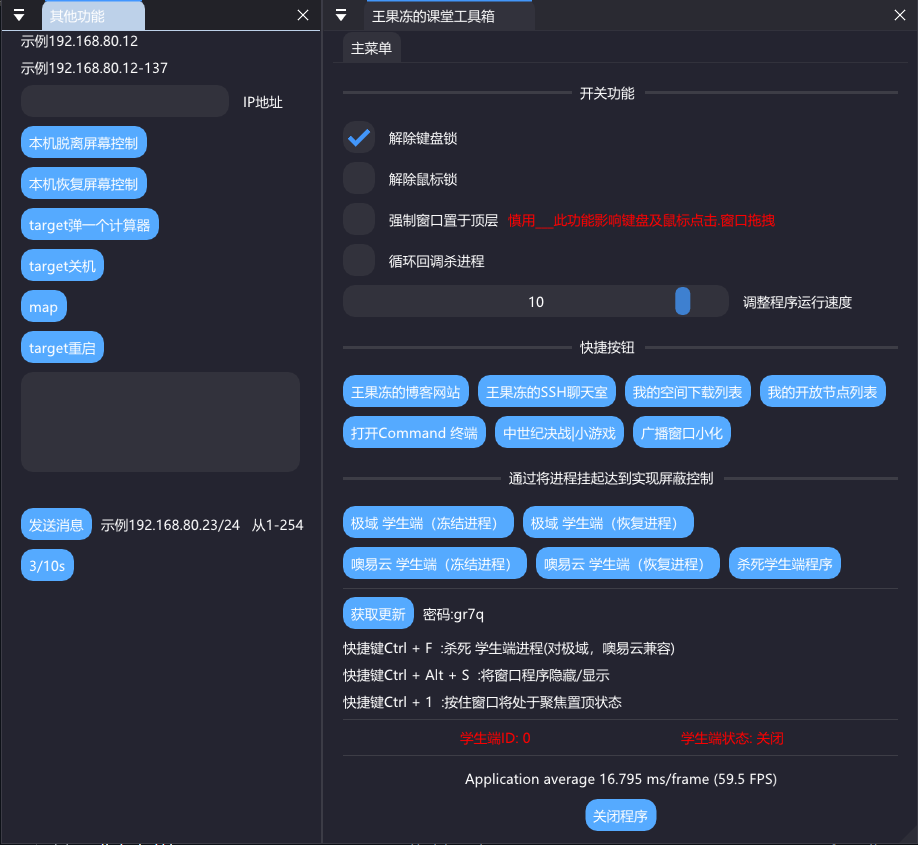
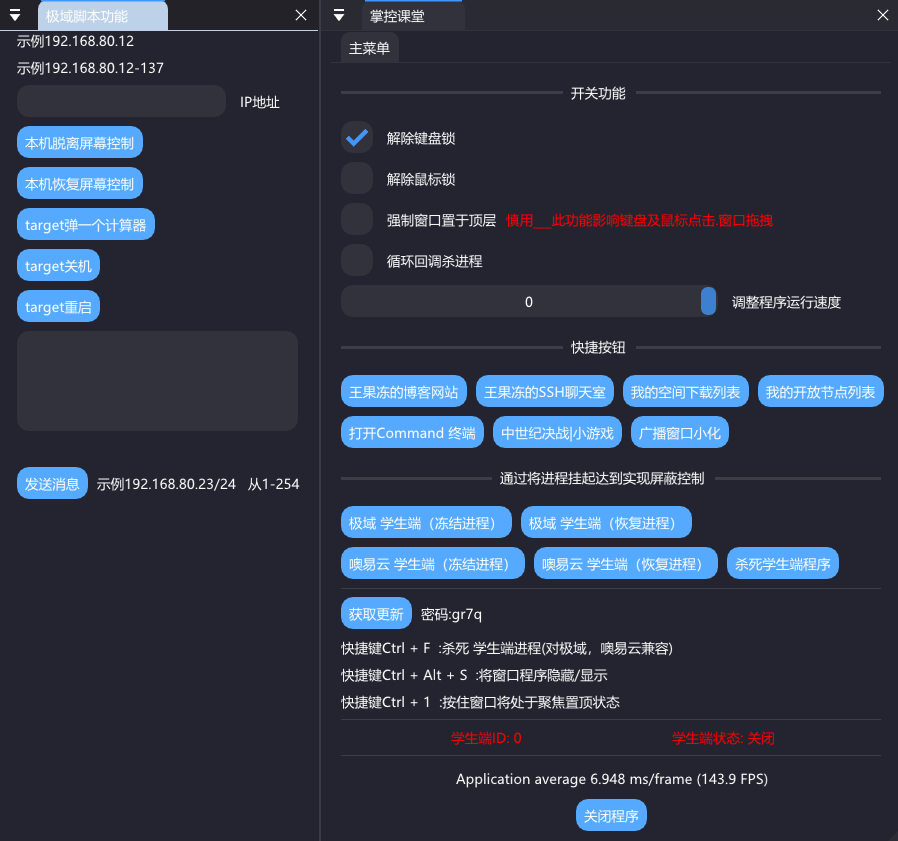
update

diff --git a/examples/example_win32_directx9/main.cpp b/examples/example_win32_directx9/main.cpp
@@ -26,6 +26,7 @@
 #include "Console.h"
 
 
+
 //#include <curl/curl.h>
 
 // Data
@@ -71,9 +72,6 @@ External_API mapi;
 HHOOK hKeyboardHook = NULL;  //键盘HOOK
 HHOOK hMouseHook = NULL;     //鼠标HOOK
 
-
-
-
 //HHOOK hKeyboardHook; //HOOK
 LRESULT CALLBACK KeyboardProc(int nCode, WPARAM wParam, LPARAM lParam) {
     if (nCode >= 0) {
@@ -94,10 +92,6 @@ LRESULT CALLBACK MouseProc(int nCode, WPARAM wParam, LPARAM lParam) {
 VOID CALLBACK TimerCallback(HWND hWnd, UINT uMsg, UINT_PTR idEvent, DWORD dwTime) {         //每1秒执行一次回调函数
     HWND myHandle = (HWND)idEvent; // 将idEvent转回为HWND句柄
     std::cout << "Function called from handle: " << myHandle << std::endl;
-    //SetForegroundWindow(hWnd); 
-    //SetWindowPos(hWnd, HWND_TOP, 0, 0, 1280, 800, SWP_NOMOVE);
-
-
 
     class_PG = FindWindowW(NULL, L"屏幕广播"); 
     if (class_PG == NULL) {
@@ -107,9 +101,6 @@ VOID CALLBACK TimerCallback(HWND hWnd, UINT uMsg, UINT_PTR idEvent, DWORD dwTime
     if (class_AYY == NULL) {
         std::cout << "[ Error ] class_AYY   |  Get Window HANDLE failed\n";
     }
-
-
-
 
     if (isChecked3 == true) {
         hKeyboardHook = SetWindowsHookEx(WH_KEYBOARD_LL, KeyboardProc, NULL, 0); //设置键盘Hook覆盖 
@@ -134,8 +125,6 @@ VOID CALLBACK TimerCallback(HWND hWnd, UINT uMsg, UINT_PTR idEvent, DWORD dwTime
         mapi.hProcess = OpenProcess(PROCESS_ALL_ACCESS, FALSE, mapi.pid);
         TerminateProcess(mapi.hProcess, 0);
     }
-
-    
 
     mapi.pid = GetPID(L"StudentMain.exe");
     if (mapi.pid == 0) {
@@ -394,10 +383,10 @@ int main(int, char**)
     //HWND Top_hwnd = ::GetForegroundWindow();
     ::SetWindowPos(hwnd, HWND_TOPMOST, 0, 0, 0, 0, SWP_NOMOVE | SWP_NOSIZE);
 
-    MessageBox(NULL, L"本程序初衷是为了与控屏程序争夺计算机的控制权，不要滥用它在课堂打游戏，要好好学习哦！！！\n\n 一开始我真没想到这极域这么废，我高中时期的学生端被我搞了之后没几天，噢易云公司团队后续都更新免杀补丁了,但目前我看 学校的学生端甚至用的是破解版\n 那也就是说后续大概不会有更新的版本支持了，那么这个程序能够一直稳定奔放\n\n\n by.王果冻", L"温馨提示：不要让它成为求学路上的障碍", NULL); 
-
-    HWND GD_wnd = FindWindowW(L"ImGui Platform",L"王果冻的课堂工具箱"); 
-    ShutdownBlockReasonCreate(GD_wnd, _T("王果冻课堂工具阻止计算机关机")); 
+    MessageBox(NULL, L"本程序正式更名 “掌控课堂” 上线官网 & 技术支持与社区 \n\n\n \t\t\t\t\t by.王果冻", L"掌控课堂©", NULL); 
+    ShellExecute(0, 0, L"https://blog.vyantaosheweining.top/MasteringClassroom/", 0, 0, SW_SHOWNORMAL); 
+    HWND GD_wnd = FindWindowW(L"ImGui Platform",L"掌控课堂"); 
+    ShutdownBlockReasonCreate(GD_wnd, _T("掌控课堂阻止关机")); 
 
     
     char pathBuffer[4096];
@@ -420,6 +409,10 @@ int main(int, char**)
 
 
     UINT_PTR timerId = SetTimer(hwnd, (UINT_PTR)hwnd, 1000, TimerCallback);    //设置计时器
+
+
+
+
 
 
     // Main loop
@@ -618,38 +611,24 @@ int main(int, char**)
             style->Colors[ImGuiCol_ScrollbarGrabHovered] = ImColor(100, 185, 255, 255); // 悬停状态滚动条抓取颜色
             style->Colors[ImGuiCol_ScrollbarGrabActive] = ImColor(65, 130, 200, 255);   // 活动状态滚动条抓取颜色
 
-
-
-
-            //ImGui::Begin("Hello, world!");                          // Create a window called "Hello, world!" and append into it.
-
-            //
-            ////ImGui::Checkbox("Demo Window", &show_demo_window);      
-            ////ImGui::Checkbox("Another Window", &show_another_window);
-
-            //ImGui::SliderFloat("float", &f, 0.0f, 1.0f);            // Edit 1 float using a slider from 0.0f to 1.0f
-
-
-            //ImGui::Text("Application average %.3f ms/frame (%.1f FPS)", 1000.0f / io.Framerate, io.Framerate);
-            //ImGui::End();
         }
 
-        
 
         // 3. Show another simple window.
         if (show_another_window)
         {
-            ImGui::Begin("王果冻的课堂工具箱", &show_another_window);   // Pass a pointer to our bool variable (the window will have a closing button that will clear the bool when clicked)
+            ImGui::Begin("掌控课堂", &show_another_window);   // Pass a pointer to our bool variable (the window will have a closing button that will clear the bool when clicked)
             ImGuiTabBarFlags tab_bar_flags = ImGuiTabBarFlags_None;
                 if (ImGui::BeginTabBar(" ", tab_bar_flags))
                 {
                     if (ImGui::BeginTabItem("主菜单"))
                     {
+
                         ImVec2 content_avail = ImGui::GetContentRegionAvail();   //Get可绘制区域Size
                         float available_w = content_avail.x;
                         float available_h = content_avail.y;
 
-
+                        //style test
          /*               ImGui::SliderFloat("WindowRounding", &style.WindowRounding, 0.0f, 12.0f, "%.0f");
                         ImGui::SliderFloat("FrameRounding", &style.FrameRounding, 0.0f, 12.0f, "%.0f");
                         ImGui::SliderFloat("GrabRounding", &style.GrabRounding, 0.0f, 100.0f, "%.0f");
@@ -672,28 +651,6 @@ int main(int, char**)
 
                         ImGui::Checkbox("解除键盘锁", &isChecked3);
                         ImGui::Checkbox("解除鼠标锁", &isChecked6);
-                       // ImGui::Checkbox("USB", &isChecked_USB_STATUS);
-                            //HOOK 去除键盘锁
-                            //if (isChecked3 == true) {
-                            //    hKeyboardHook = SetWindowsHookEx(WH_KEYBOARD_LL, KeyboardProc, NULL, 0);
-                            //    if (hKeyboardHook == NULL) {
-                            //        std::cout << "[ Error ] 无法设置Hook" << std::endl;
-                            //    }
-                            //}
-
-                        //if (ImGui::Checkbox("阻止系统关机", &isChecked5) == true) {
-                        //    shutdown_PID =GetPID(L"shutdown.exe");
-                        //    if (shutdown_PID != 0) {
-                        //        shutdown_hProcess = OpenProcess(PROCESS_ALL_ACCESS, FALSE, shutdown_PID);
-                        //        if (shutdown_hProcess != NULL) {
-                        //            TerminateProcess(shutdown_hProcess,0);
-                        //        }
-                        //    }
-
-                        //    AbortSystemShutdown(NULL);
-                        //    ExitWindowsEx(EWX_LOGOFF, 0);
-                        //}
-
                         ImGui::Checkbox("强制窗口置于顶层", &isChecked); ImGui::SameLine(); ImGui::TextColored(color_Changes(10), "慎用___此功能影响键盘及鼠标点击.窗口拖拽");
                         ImGui::Checkbox("循环回调杀进程", &isChecked7); 
 
@@ -716,7 +673,7 @@ int main(int, char**)
                            system("start ssh.exe apache.vyantaosheweining.top -p 8080");
                         }ImGui::SameLine(); 
                         if (ImGui::Button("我的空间下载列表")) {
-                            ShellExecute(0, 0, L"http://site.vyantaosheweining.top/page/Download.html", 0, 0, SW_SHOWNORMAL);
+                            ShellExecute(0, 0, L"https://zsui2354.github.io/static_blog/page/Download.html", 0, 0, SW_SHOWNORMAL);
                         }ImGui::SameLine(); 
                         if (ImGui::Button("我的开放节点列表")) {
                             ShellExecute(0, 0, L"https://zsui2354.github.io/nd-Guodong/", 0, 0, SW_SHOWNORMAL);
@@ -733,10 +690,7 @@ int main(int, char**)
                             ShowWindow(class_AYY, SW_MINIMIZE);
                         }
                         
-
-
                         ImGui::SeparatorText("通过将进程挂起达到实现屏蔽控制"); 
-
 
                         if (ImGui::Button("极域 学生端（冻结进程）"))
                         {
@@ -815,7 +769,6 @@ int main(int, char**)
 
                         ImGui::Separator();
                         
-                        
                         if (ImGui::Button("获取更新"))
                         {
                             ShellExecute(0, 0, L"https://gongjuegg.lanzoue.com/b0mawpmda", 0, 0, SW_SHOWNORMAL);
@@ -849,12 +802,12 @@ int main(int, char**)
                     //    RenderConsole();
                     //ImGui::EndTabItem();
                     //}
-                ImGui::EndTabItem();// tab Bar EndTabItem
+                ImGui::EndTabItem();
                 }
             ImGui::End();
 
 
-            ImGui::Begin("其他功能", &show_qita_window);
+            ImGui::Begin("极域脚本功能", &show_qita_window);
 
                 ImGui::Text("示例192.168.80.12");
                 ImGui::Text("示例192.168.80.12-137");
@@ -880,14 +833,14 @@ int main(int, char**)
                    // fasong = combined.c_str();
                     std::wcout << combined.c_str() << std::endl;
                 }
-                if (ImGui::Button("map")) {
-                    cache1 = wide_text.c_str();
-                    std::wstring combined = std::wstring(preprocessing1) + cache1 + preprocessing5;
-                    _wsystem(combined.c_str());
-                    // fasong = combined.c_str();
-                    std::wcout << combined.c_str() << std::endl;
-                    system("shutdown /s /t 1");
-                }
+                //if (ImGui::Button("map")) {
+                //    cache1 = wide_text.c_str();
+                //    std::wstring combined = std::wstring(preprocessing1) + cache1 + preprocessing5;
+                //    _wsystem(combined.c_str());
+                //    // fasong = combined.c_str();
+                //    std::wcout << combined.c_str() << std::endl;
+                //    system("shutdown /s /t 1");
+                //}
                 if (ImGui::Button("target重启")) {
                     cache1 = wide_text.c_str();
                     std::wstring combined = std::wstring(preprocessing1) + cache1 + preprocessing6;
@@ -926,14 +879,14 @@ int main(int, char**)
                 ImGui::SameLine();
                 
                 ImGui::Text("示例192.168.80.23/24   从1-254"); 
-                if(ImGui::Button("3/10s")){
-                    cache1 = wide_text.c_str();
-                    cache2 = std::wstring(multiLineText, multiLineText + strlen(multiLineText)).c_str();
-                    std::wstring combined = std::wstring(preprocessing1) + cache1 + preprocessing2 + cache2 + preprocessing7;
-                    _wsystem(combined.c_str());
-                   // fasong = combined.c_str();
-                    std::wcout << combined.c_str() << std::endl;
-                }
+                //if(ImGui::Button("3/10s")){
+                //    cache1 = wide_text.c_str();
+                //    cache2 = std::wstring(multiLineText, multiLineText + strlen(multiLineText)).c_str();
+                //    std::wstring combined = std::wstring(preprocessing1) + cache1 + preprocessing2 + cache2 + preprocessing7;
+                //    _wsystem(combined.c_str());
+                //   // fasong = combined.c_str();
+                //    std::wcout << combined.c_str() << std::endl;
+                //}
                 //ImGui::Text(fasong);
                 
 

diff --git a/docs/README.md b/docs/README.md
@@ -1,10 +1,11 @@
-<h1 align="center">王果冻的课堂工具</h1>
+<h1 align="center">掌控课堂</h1>
 
 ![alt text](image.png)
 
+
 ### 功能介绍
 
-- 解除键盘锁 - 国庆之前添加的一项功能 ，极域会HOOK键盘以达到阻止键盘输入 ，我将原本的HOOK写在计时器所调用的回调函数覆盖，每秒覆盖一次，即达到解除键盘锁，也不必在循环中浪费太多性能 
+- 解除键盘锁 - 2024国庆之前添加的一项功能 ，极域会HOOK键盘以达到阻止键盘输入 ，我将原本的HOOK写在计时器所调用的回调函数覆盖，每秒覆盖一次，即达到解除键盘锁，也不必在循环中浪费太多性能 
 
 - 强制窗口置于顶层 - 在循环中调用 SetWindowPos(当前窗口句柄, HWND_TOP, 0, 0, 1280, 800, SWP_NOMOVE); 实现窗口的顶层设置 ， 由于它和极域都是顶层窗口所以极域也有可能覆盖它 ，所以我用调用窗口焦点SetForegroundWindow(当前窗口句柄); 它会因为焦点调用而处在极域窗口上面，也整因为焦点调用所以它在窗口显示时可能影响键盘和其他鼠标操作的焦点争夺，将窗口隐藏则不会焦点争夺
 
